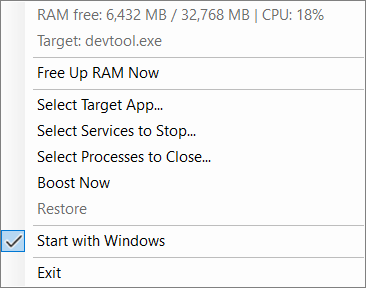
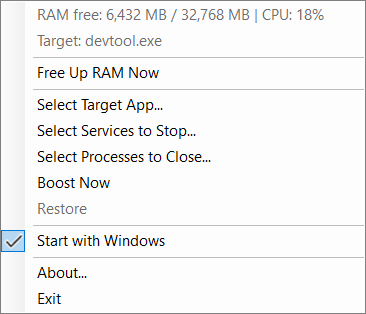
Add About dialog (v1.0.1)
New "About..." tray menu item shows developer info, license, and a
link back to this repo. Updated README and screenshots to match.

Changed region(s): [[0.0, 0.0312, 0.9918, 0.9688]]

diff --git a/src/xFreeRamWindows/AboutForm.cs b/src/xFreeRamWindows/AboutForm.cs
@@ -1,0 +1,92 @@
+using System.Diagnostics;
+using System.Reflection;
+
+namespace xFreeRamWindows;
+
+internal sealed class AboutForm : Form
+{
+    private const string RepoUrl = "https://github.com/jorodriguezpr/xFreeRamWindows";
+
+    public AboutForm()
+    {
+        Text = "About xFreeRamWindows";
+        Width = 460;
+        Height = 300;
+        StartPosition = FormStartPosition.CenterScreen;
+        MinimizeBox = false;
+        MaximizeBox = false;
+        FormBorderStyle = FormBorderStyle.FixedDialog;
+        ShowIcon = false;
+
+        var version = Assembly.GetExecutingAssembly().GetName().Version;
+        var versionText = version is null ? "" : $"v{version.Major}.{version.Minor}.{version.Build}";
+
+        var iconBox = new PictureBox
+        {
+            Image = SystemIcons.Application.ToBitmap(),
+            SizeMode = PictureBoxSizeMode.Zoom,
+            Location = new Point(20, 20),
+            Size = new Size(48, 48),
+        };
+        try
+        {
+            using var icon = Icon.ExtractAssociatedIcon(Application.ExecutablePath);
+            if (icon is not null) iconBox.Image = icon.ToBitmap();
+        }
+        catch
+        {
+            // Keep the SystemIcons.Application fallback set above.
+        }
+
+        var titleLabel = new Label
+        {
+            Text = $"xFreeRamWindows {versionText}",
+            Font = new Font(Font.FontFamily, 13, FontStyle.Bold),
+            Location = new Point(80, 25),
+            AutoSize = true,
+        };
+
+        var infoLabel = new Label
+        {
+            Text = "Developer: Jose Rodriguez Arroyo\n" +
+                   "Email: jrpcone@gmail.com\n" +
+                   "License: Apache License 2.0",
+            Location = new Point(20, 90),
+            Size = new Size(340, 60),
+        };
+
+        var linkLabel = new LinkLabel
+        {
+            Text = RepoUrl,
+            Location = new Point(20, 155),
+            AutoSize = true,
+        };
+        linkLabel.Click += (_, _) =>
+        {
+            try
+            {
+                Process.Start(new ProcessStartInfo(RepoUrl) { UseShellExecute = true });
+            }
+            catch
+            {
+                // Best-effort - nothing sensible to do if the shell can't open a browser here.
+            }
+        };
+
+        var closeButton = new Button
+        {
+            Text = "Close",
+            DialogResult = DialogResult.OK,
+            AutoSize = true,
+            Location = new Point(350, 210),
+        };
+
+        Controls.Add(iconBox);
+        Controls.Add(titleLabel);
+        Controls.Add(infoLabel);
+        Controls.Add(linkLabel);
+        Controls.Add(closeButton);
+        AcceptButton = closeButton;
+        CancelButton = closeButton;
+    }
+}

diff --git a/src/xFreeRamWindows/TrayApplicationContext.cs b/src/xFreeRamWindows/TrayApplicationContext.cs
@@ -16,6 +16,7 @@ internal sealed class TrayApplicationContext : ApplicationContext
     private readonly ToolStripMenuItem _targetLabelItem;
     private readonly ToolStripMenuItem _statsLabelItem;
     private readonly ToolStripMenuItem _autoStartItem;
+    private readonly ToolStripMenuItem _aboutItem;
     private readonly System.Windows.Forms.Timer _statsTimer;
     private readonly AppSettings _settings;
 
@@ -32,6 +33,7 @@ internal sealed class TrayApplicationContext : ApplicationContext
         _boostItem = new ToolStripMenuItem("Boost Now", null, OnBoost);
         _restoreItem = new ToolStripMenuItem("Restore", null, OnRestore) { Enabled = false };
         _autoStartItem = new ToolStripMenuItem("Start with Windows", null, OnToggleAutoStart) { Checked = AutoStartManager.IsEnabled() };
+        _aboutItem = new ToolStripMenuItem("About...", null, OnAbout);
         var exitItem = new ToolStripMenuItem("Exit", null, OnExit);
 
         var menu = new ContextMenuStrip();
@@ -48,6 +50,7 @@ internal sealed class TrayApplicationContext : ApplicationContext
         menu.Items.Add(new ToolStripSeparator());
         menu.Items.Add(_autoStartItem);
         menu.Items.Add(new ToolStripSeparator());
+        menu.Items.Add(_aboutItem);
         menu.Items.Add(exitItem);
 
         _trayIcon = new NotifyIcon
@@ -201,6 +204,12 @@ internal sealed class TrayApplicationContext : ApplicationContext
                 MessageBoxButtons.OK,
                 MessageBoxIcon.Error);
         }
+    }
+
+    private void OnAbout(object? sender, EventArgs e)
+    {
+        using var dialog = new AboutForm();
+        dialog.ShowDialog();
     }
 
     private void OnExit(object? sender, EventArgs e)

diff --git a/README.md b/README.md
@@ -45,6 +45,10 @@ explicitly chosen, then restores the stopped services on demand.
 6. The tray icon's tooltip and context menu show live free RAM and an estimated
    CPU% at all times, refreshed every 1.5s — independent of whether Boost is
    active.
+7. **About...** shows developer/contact info, license, and a link back to this
+   repo.
+
+   ![About dialog](screenshots/about.png)
 
 > Screenshots above use fabricated service/process names for illustration —
 > not a real machine's data.
